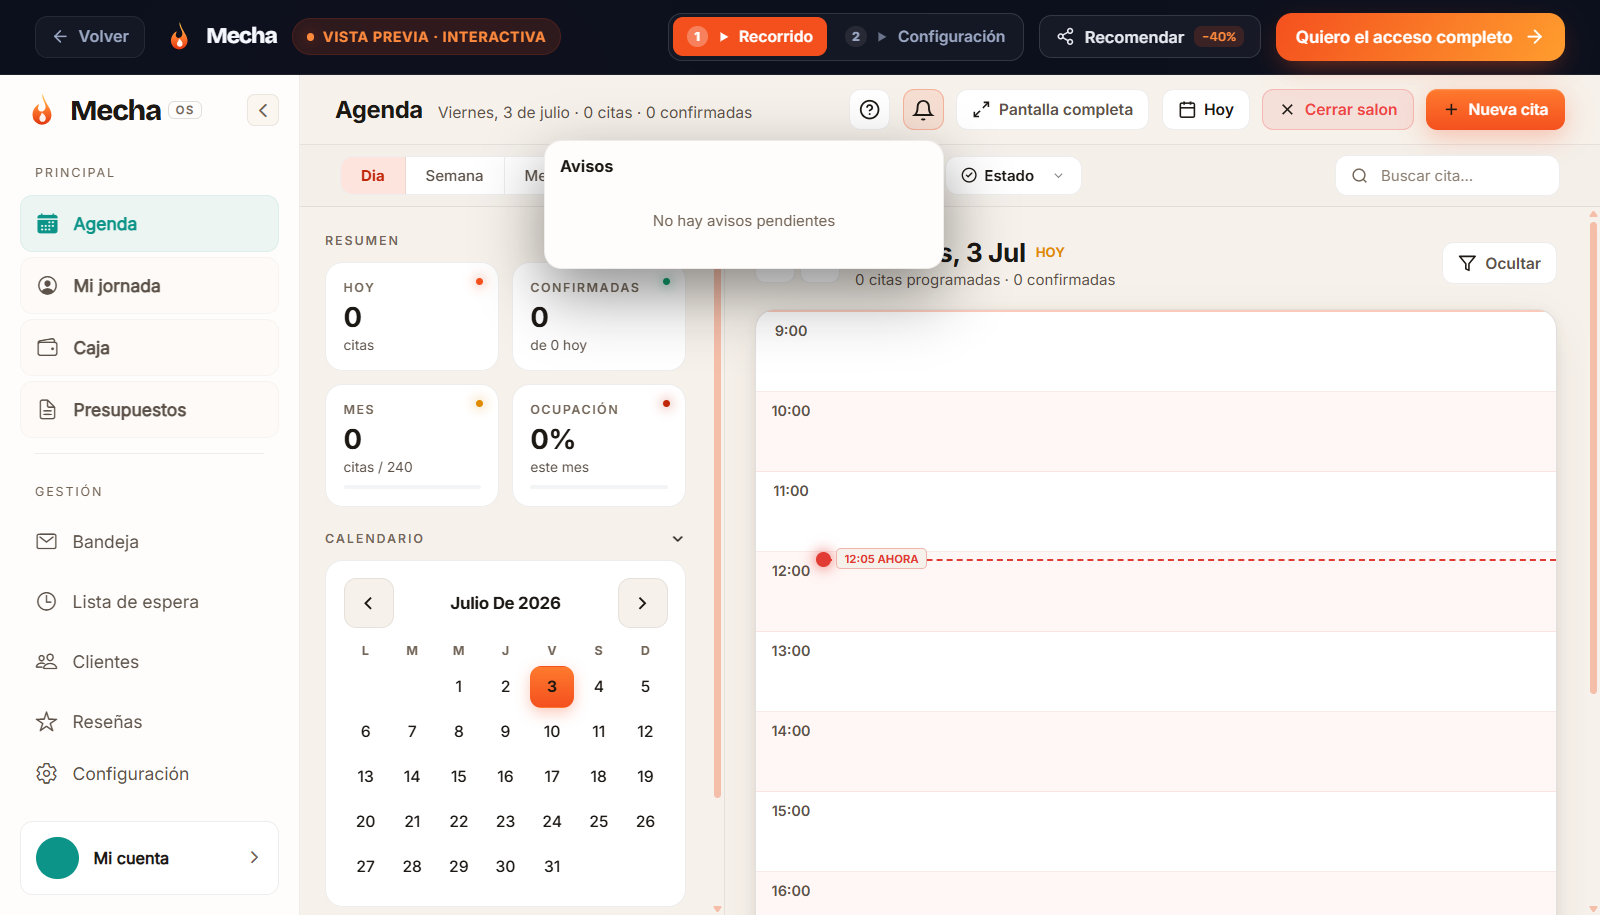
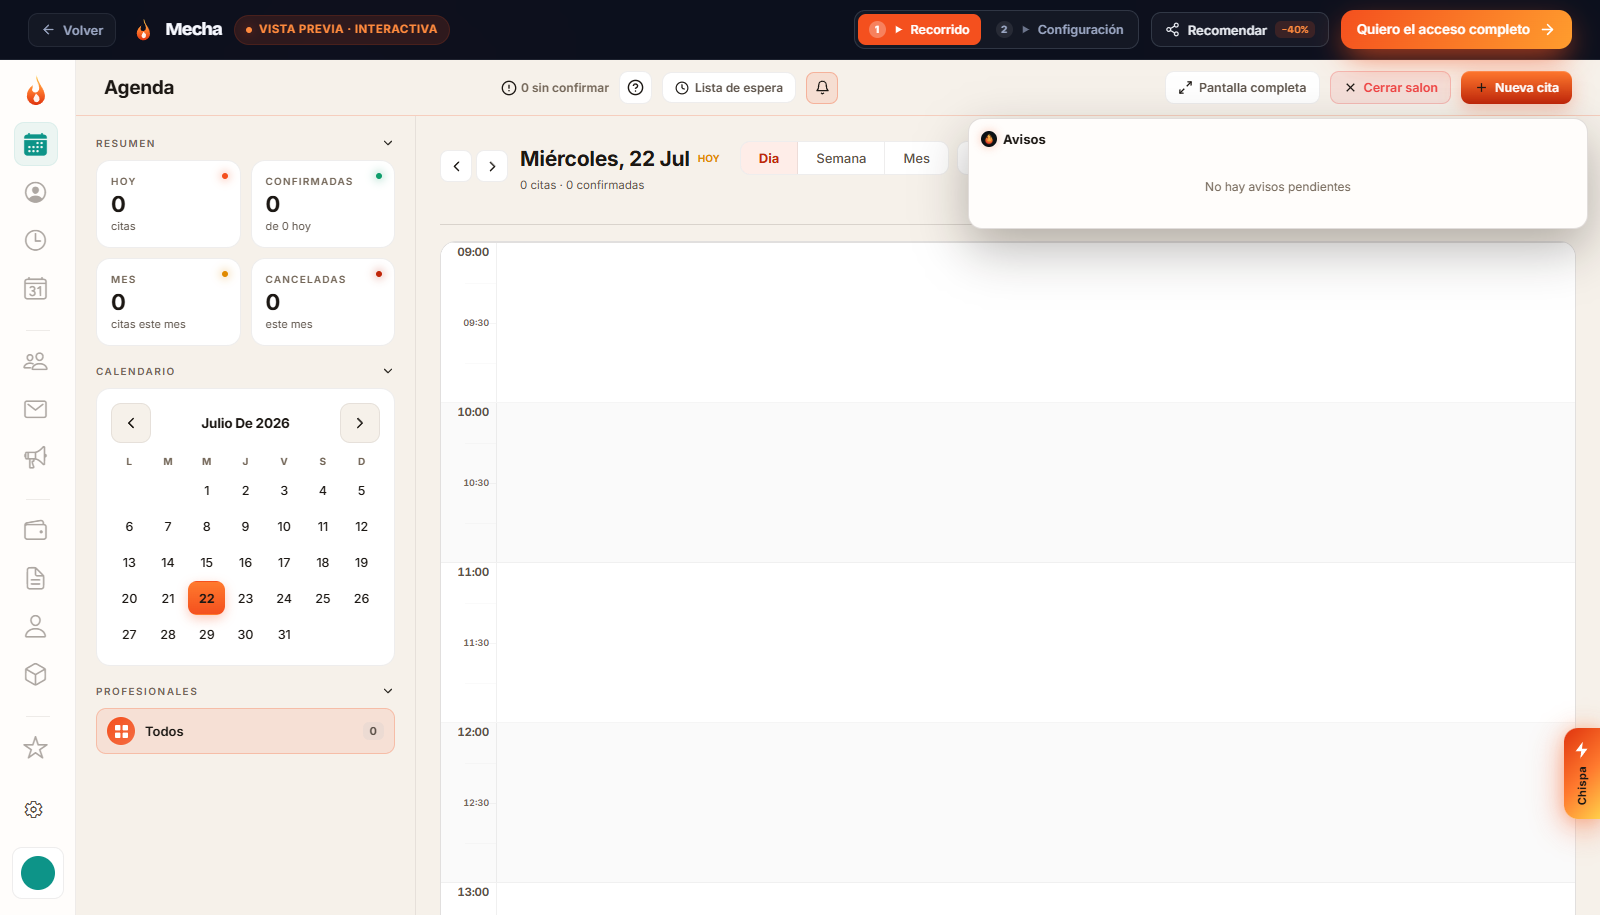
@ manuales: capturas de la Agenda al dia y script para regenerarlas
vistas.png y avisos.png eran anteriores al cambio de sitio de Dia/Semana/Mes
y al rail de navegacion en iconos: mostraban una pantalla que ya no existe.
Se recapturan desde la demo publica y se recalculan los dos highlight a partir
de la posicion real de los elementos, no a ojo.

scripts/capturar-manuales.mjs deja el proceso repetible: abre la demo, oculta
el envoltorio (tour, velo, barra de cookies), mide la caja del elemento que
senala cada seccion y escribe la captura.

@

diff --git a/lib/manuals/agenda.ts b/lib/manuals/agenda.ts
@@ -13,6 +13,8 @@ export const manualAgenda: ManualContent = {
     {
       titulo: 'Cambiar de vista',
       texto: 'Los botones "Dia", "Semana" y "Mes", junto a la fecha de la agenda, cambian el rango que se muestra. La vista de día es la que usarás la mayor parte del tiempo; al lado tienes "Hoy" para volver de un salto.',
+      captura: '/manuals/agenda/vistas.png',
+      highlight: { top: '14.9%', left: '45.9%', width: '13.7%', height: '4.8%' },
     },
     {
       titulo: 'Editar, cobrar o cancelar una cita',
@@ -26,7 +28,7 @@ export const manualAgenda: ManualContent = {
       titulo: 'El panel de Avisos',
       texto: 'El icono de campana, arriba a la derecha, agrupa citas sin confirmar en las próximas 48h, el progreso de puesta en marcha del salón y otros avisos operativos del día.',
       captura: '/manuals/agenda/avisos.png',
-      highlight: { top: '9%', left: '55%', width: '4%', height: '5%' },
+      highlight: { top: '7.2%', left: '50%', width: '2.8%', height: '4.8%' },
     },
     {
       titulo: 'Lista de espera',